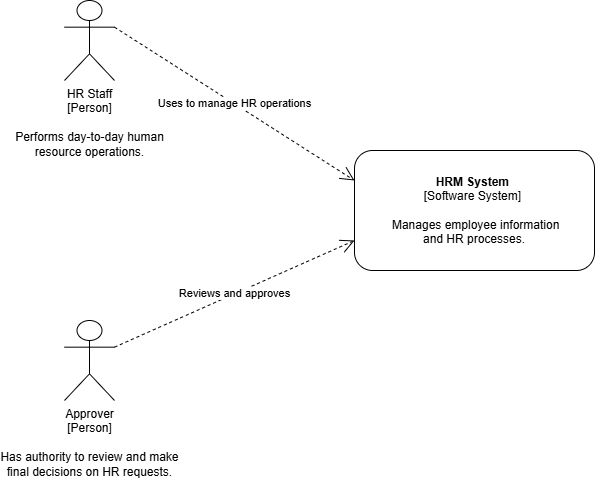
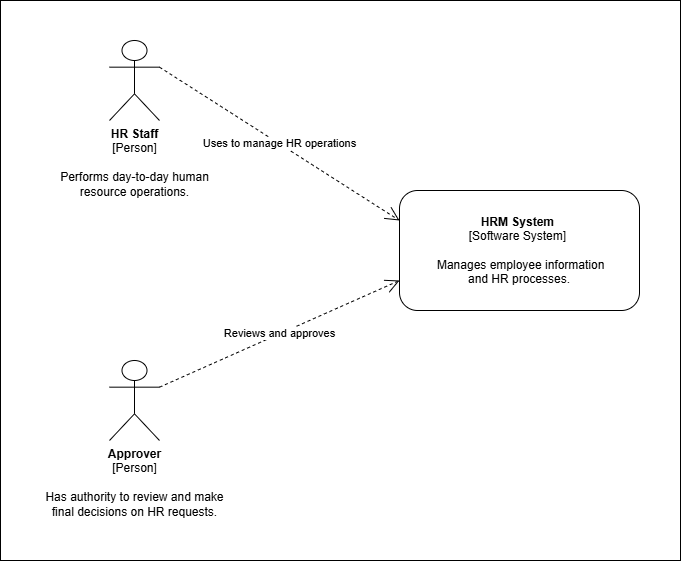
Thêm C4 Container diagram, cập nhật System Context diagram và README

diff --git a/Docs/c4/README.md b/Docs/c4/README.md
@@ -5,7 +5,7 @@ Architecture diagrams for the HRM System, drawn using the [C4 model](https://c4m
 The C4 model shows the system at 4 levels, from most general to most detailed:
 
 1. **System Context** — the system and who/what uses it. ✅ Done
-2. **Container** — the main parts inside the system (e.g. web app, API, database). Not yet
+2. **Container** — the main parts inside the system (e.g. web app, API, database). ✅ Done
 3. **Component** — the main parts inside one container. Not yet
 4. **Code** — class/code level detail. Not yet
 
@@ -21,6 +21,21 @@ Shows the HRM System and its 2 main users:
 - **HR Staff** — performs day-to-day HR operations.
 - **Approver** — has authority to review and make final decisions on HR requests.
 
+## 2. Container Diagram
+
+![Container Diagram](Container-diagram.png)
+
+- [`Container-diagram.drawio`](Container-diagram.drawio) — editable source file.
+- [`Container-diagram.png`](Container-diagram.png) — exported image.
+
+Shows the 3 main containers inside the HRM System:
+
+- **HRM Web Application** (JavaScript / Angular) — provides the user interface for HR operations.
+- **HRM Backend API** (ASP.NET Core) — handles HR business logic and exposes APIs to client applications.
+- **HRM Database** (SQL Server) — stores HRM operational data.
+
+The Web Application calls the Backend API over HTTPS/REST/JSON, and the Backend API reads/writes the Database over SQL.
+
 ## Notes
 
-- Diagrams 2–4 (Container, Component, Code) will be added later.
+- Diagrams 3–4 (Component, Code) will be added later.

diff --git a/Docs/README.md b/Docs/README.md
@@ -26,4 +26,4 @@ Design documents for the **Salary Grade Promotion** feature (part of Salary Mana
 
 - [`UseCase_SalaryGradePromotion.md`](UseCase_SalaryGradePromotion.md) — Use case diagram and description (actors and main actions).
 - [`InformationArchitecture_SalaryGradePromotion.md`](InformationArchitecture_SalaryGradePromotion.md) — Sitemap of the module's menu structure (Salary Management, Master Data), separate from the step-by-step navigation flow in the wireframe document.
-- [`c4/`](c4/README.md) — C4 model architecture diagrams (System Context, Container, Component, Code). Only System Context is done so far.
+- [`c4/`](c4/README.md) — C4 model architecture diagrams (System Context, Container, Component, Code). System Context and Container are done so far.
